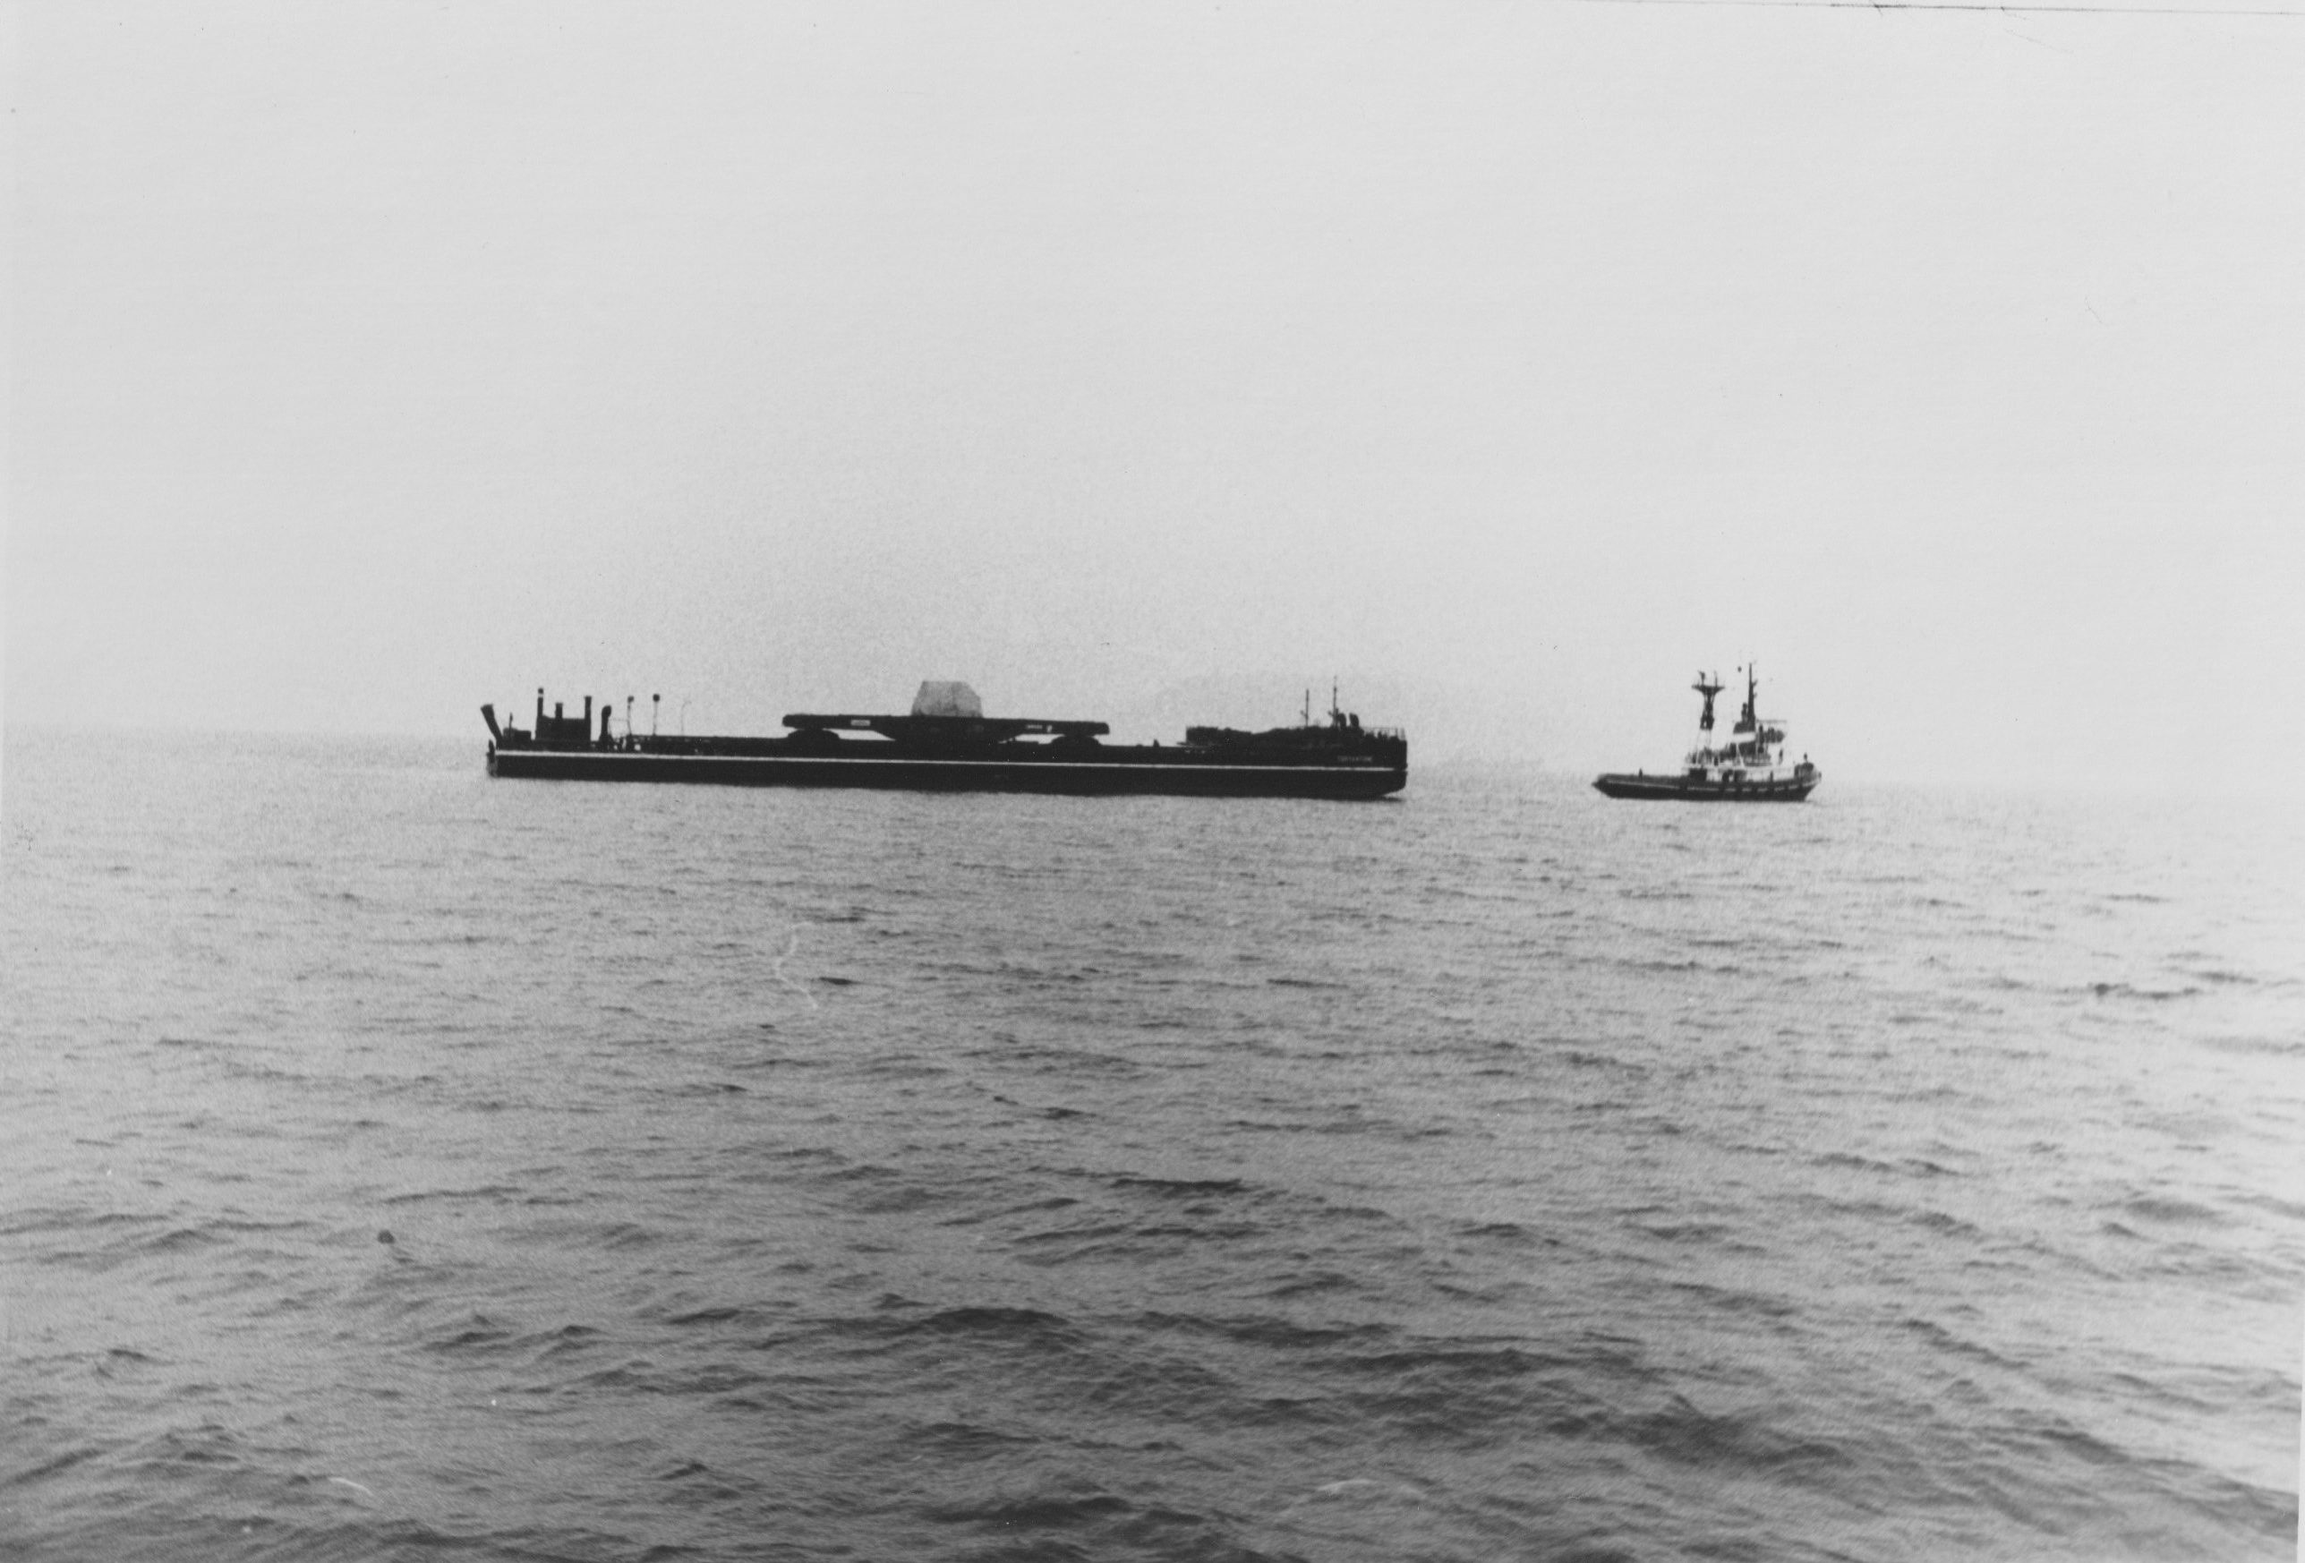
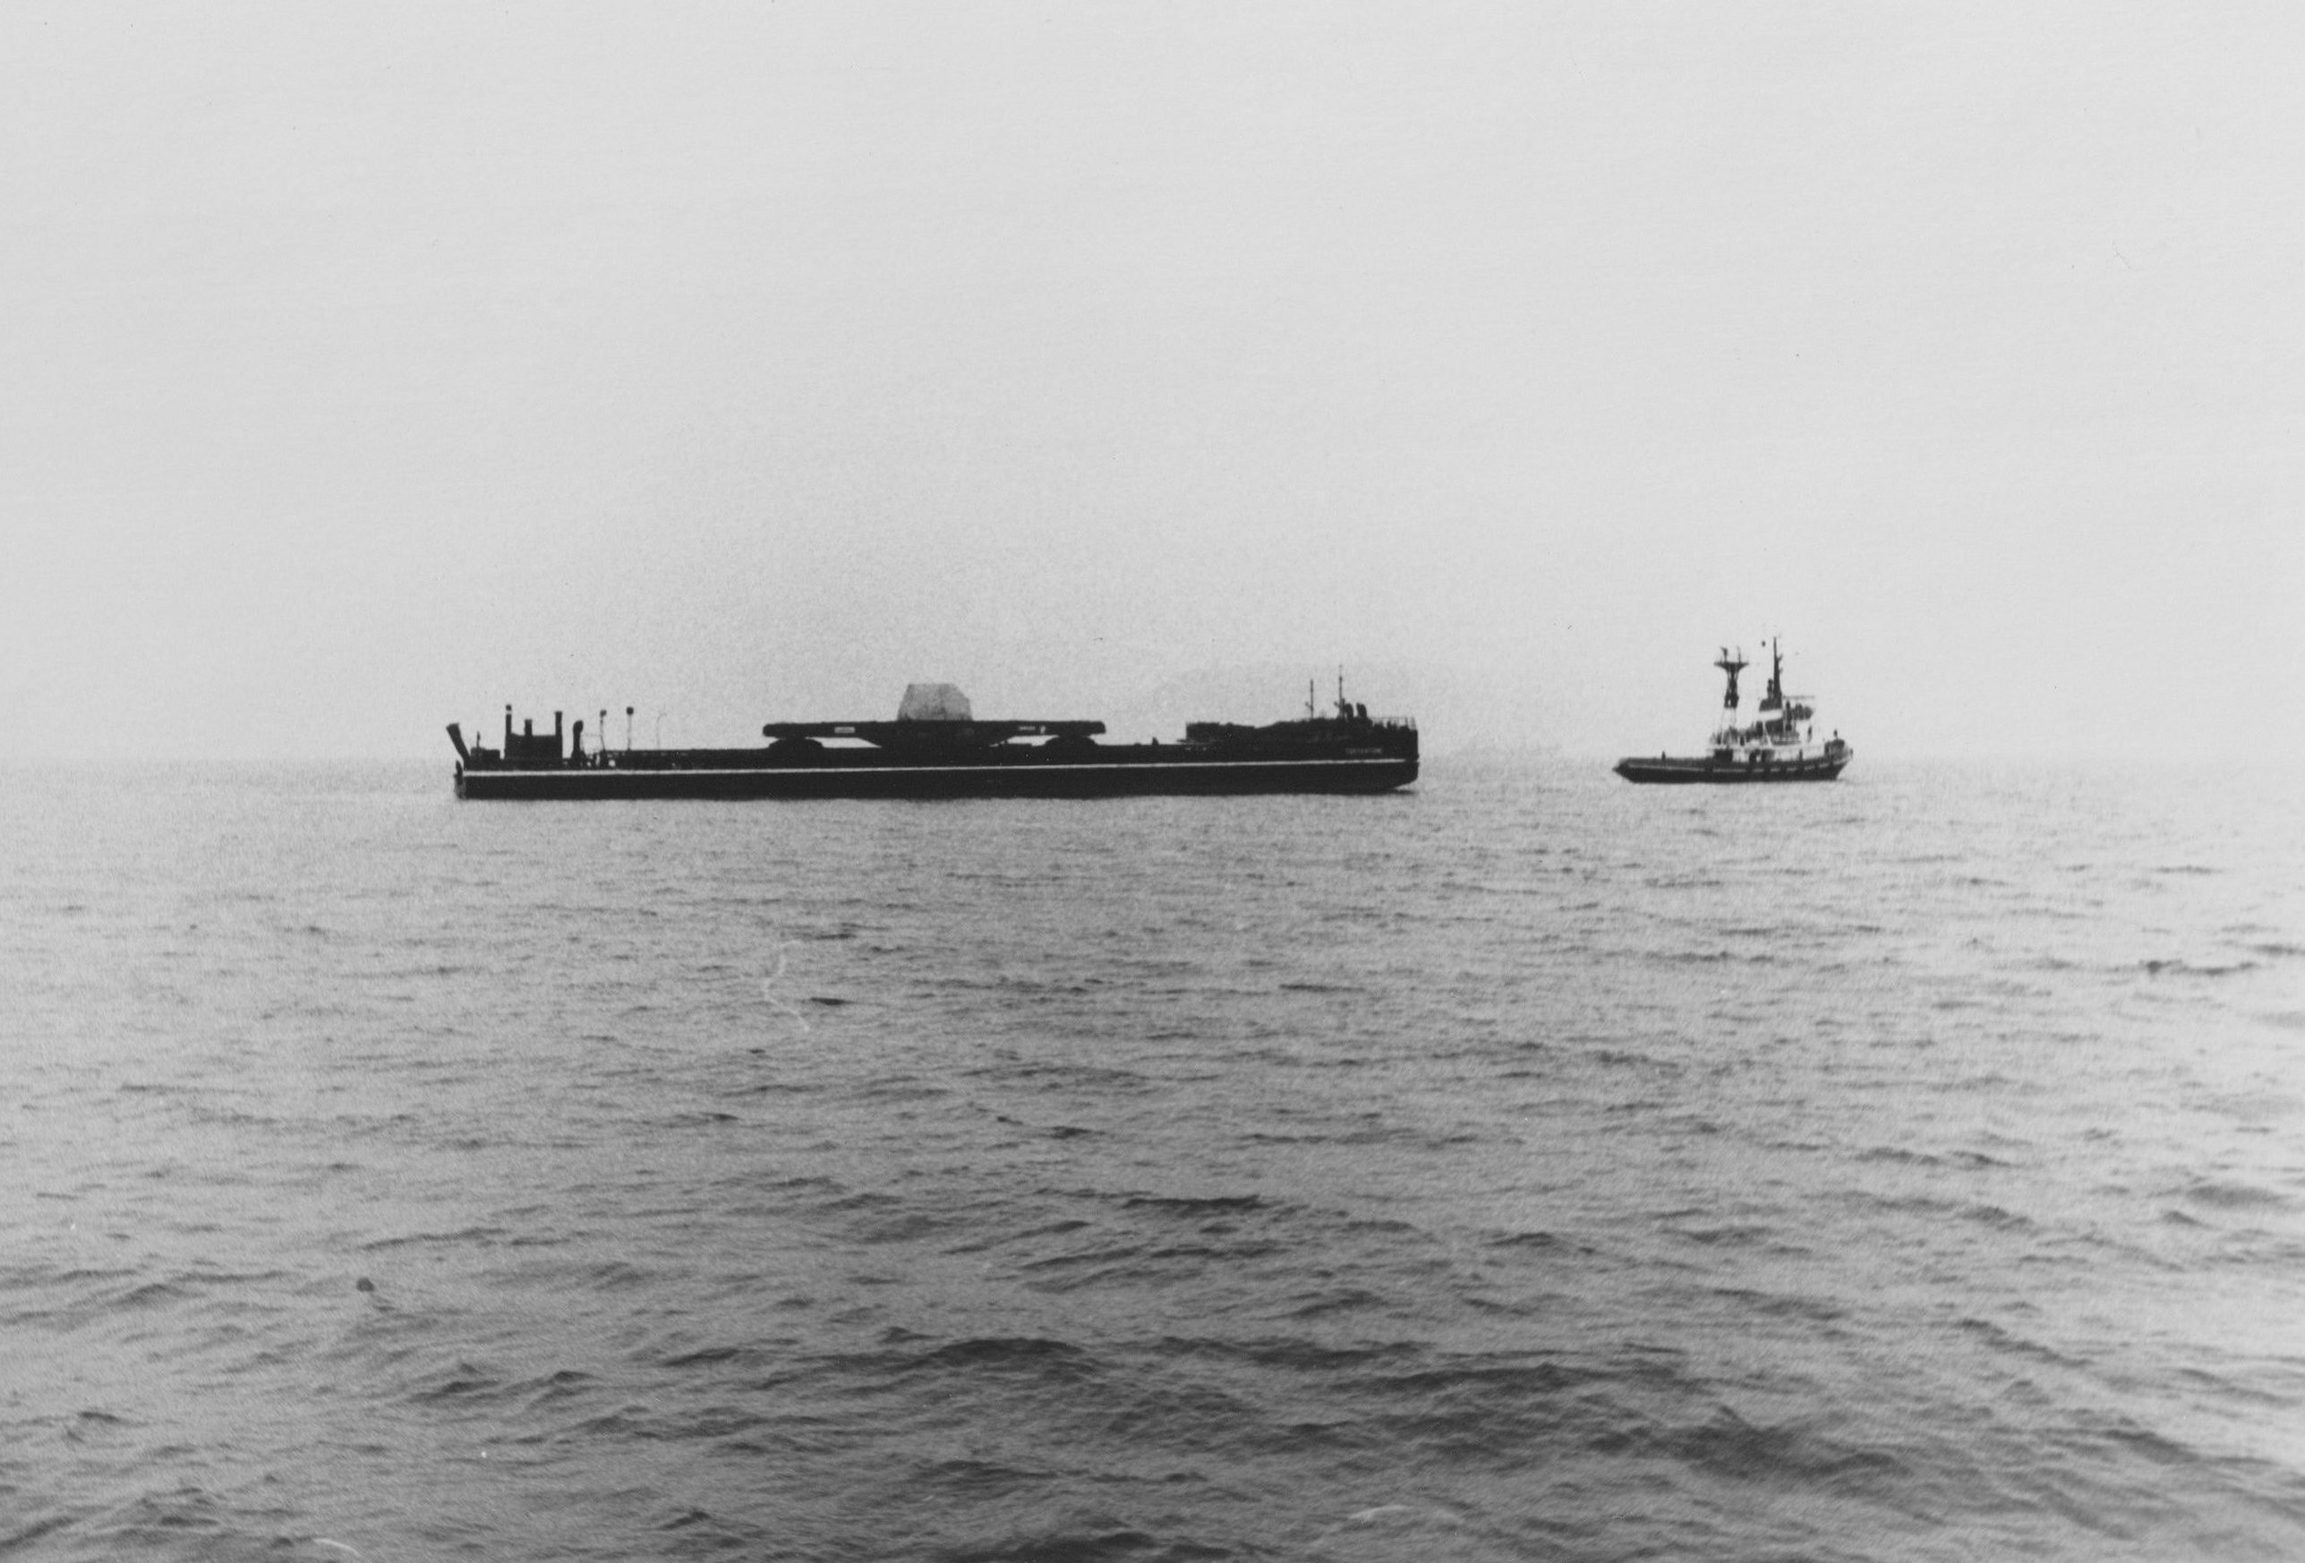
Level the horizon in the stone at sea, and on a phone open it on its right part
The photograph's horizon fell 1.87 degrees to the right (row 815 at its
left end, 888 at its right). The file is rotated back by that much and
cropped about its centre to the largest rectangle of the same proportions
that the turned picture still fills, 95.5% of each side, then brought back
to its 2575 x 1746, so it is level on every screen, in the lightbox and on
the gallery sheet, with no corner left empty. Measured afterwards at rows
853 and 851. Its address carries ?v=2 so a cached copy is not shown.

On a phone it is swiped the other way from the block on the quarry floor:
it opens on its right part, the tug, standing on the right gutter and
running off the screen's left edge, and is swiped from left to right until
its own left edge stands on the left gutter. The row is right-to-left,
which starts it scrolled to that end by itself.

Checked in the pane at 402px and 1280px, and in Safari on the iPhone 17
simulator at 402px: opens with the picture at -251 to 382, swiped fully at
20 to 653, page 402px wide.

Changed region(s): [[0.0, 0.4021, 1.0, 1.0], [0.1864, 0.433, 0.6214, 0.5258], [0.8699, 0.5876, 1.0, 0.7113]]

diff --git a/index.html b/index.html
@@ -4,7 +4,7 @@
 <meta charset="utf-8" />
 <meta name="viewport" content="width=device-width, initial-scale=1" />
 <title>Toward Kontinuität — Méridien Editorial</title>
-<link rel="stylesheet" href="styles.css?v=534" />
+<link rel="stylesheet" href="styles.css?v=535" />
 <!-- <script type="module" src="./assets/cursor-flow.js" defer></script> -->
 <!-- MapLibre GL — Journey satellite globes (Esri World Imagery, globe projection) -->
 <link rel="stylesheet" href="https://unpkg.com/maplibre-gl@5/dist/maplibre-gl.css" />
@@ -963,9 +963,10 @@
             <figure class="journey-photo-bleed journey-photo--cap-on">
               <figcaption class="journey-cap journey-cap--crossing journey-cap--credit"><h5>The granite block under tow from Porto di Santa Teresa Gallura to Porto Marina di Carrara</h5><p>Photo &copy; Dominique Stroobant</p></figcaption>
               <!-- Swiped across on a phone, as the block on the quarry floor
-                   is (.journey-photo-swipe). -->
+                   is, but the other way: it opens on its right part and is
+                   swiped from left to right (.journey-photo-swipe). -->
               <div class="journey-photo-swipe">
-                <img src="./assets/_journey/1%20italy/sardinia-11-the-ship.jpg" alt="The block on a barge at sea, a tug ahead of it" width="2575" height="1746" loading="lazy" decoding="async">
+                <img src="./assets/_journey/1%20italy/sardinia-11-the-ship.jpg?v=2" alt="The block on a barge at sea, a tug ahead of it" width="2575" height="1746" loading="lazy" decoding="async">
               </div>
             </figure>
           </div>

diff --git a/styles.css b/styles.css
@@ -4198,10 +4198,18 @@ body:has(.narr-film.is-flying) .crail-panel { z-index: 975; }
   }
   .journey-photo-swipe::-webkit-scrollbar { display: none; }
   .journey-photo-swipe > img { flex: 0 0 175%; width: 175%; max-width: none; }
-  /* The stone at sea the same way: its figure runs edge to edge, so the
-     row starts on the left gutter rather than reaching out to the right one,
-     and the picture is the same size as the block's. */
-  .journey-photo-bleed > .journey-photo-swipe { margin: 0 0 0 var(--gutter); }
+  /* The stone at sea the same way, mirrored: it opens on its right part,
+     standing on the right gutter and running off the screen's left edge, and
+     is swiped from left to right until its own left edge stands on the left
+     gutter. A right-to-left row starts scrolled to that end by itself. Its
+     figure runs edge to edge, so the row only steps in from the right edge
+     rather than reaching out to it; the picture is the same size as the
+     block's. */
+  .journey-photo-bleed > .journey-photo-swipe {
+    direction: rtl;
+    margin: 0 var(--gutter) 0 0;
+    padding: 0 0 0 var(--gutter);
+  }
   .granite-travel-row > figure { flex: 0 0 86%; scroll-snap-align: start; }
   .granite-travel-go { display: block; }
   .granite-travel-track > img { margin-top: 0; }
